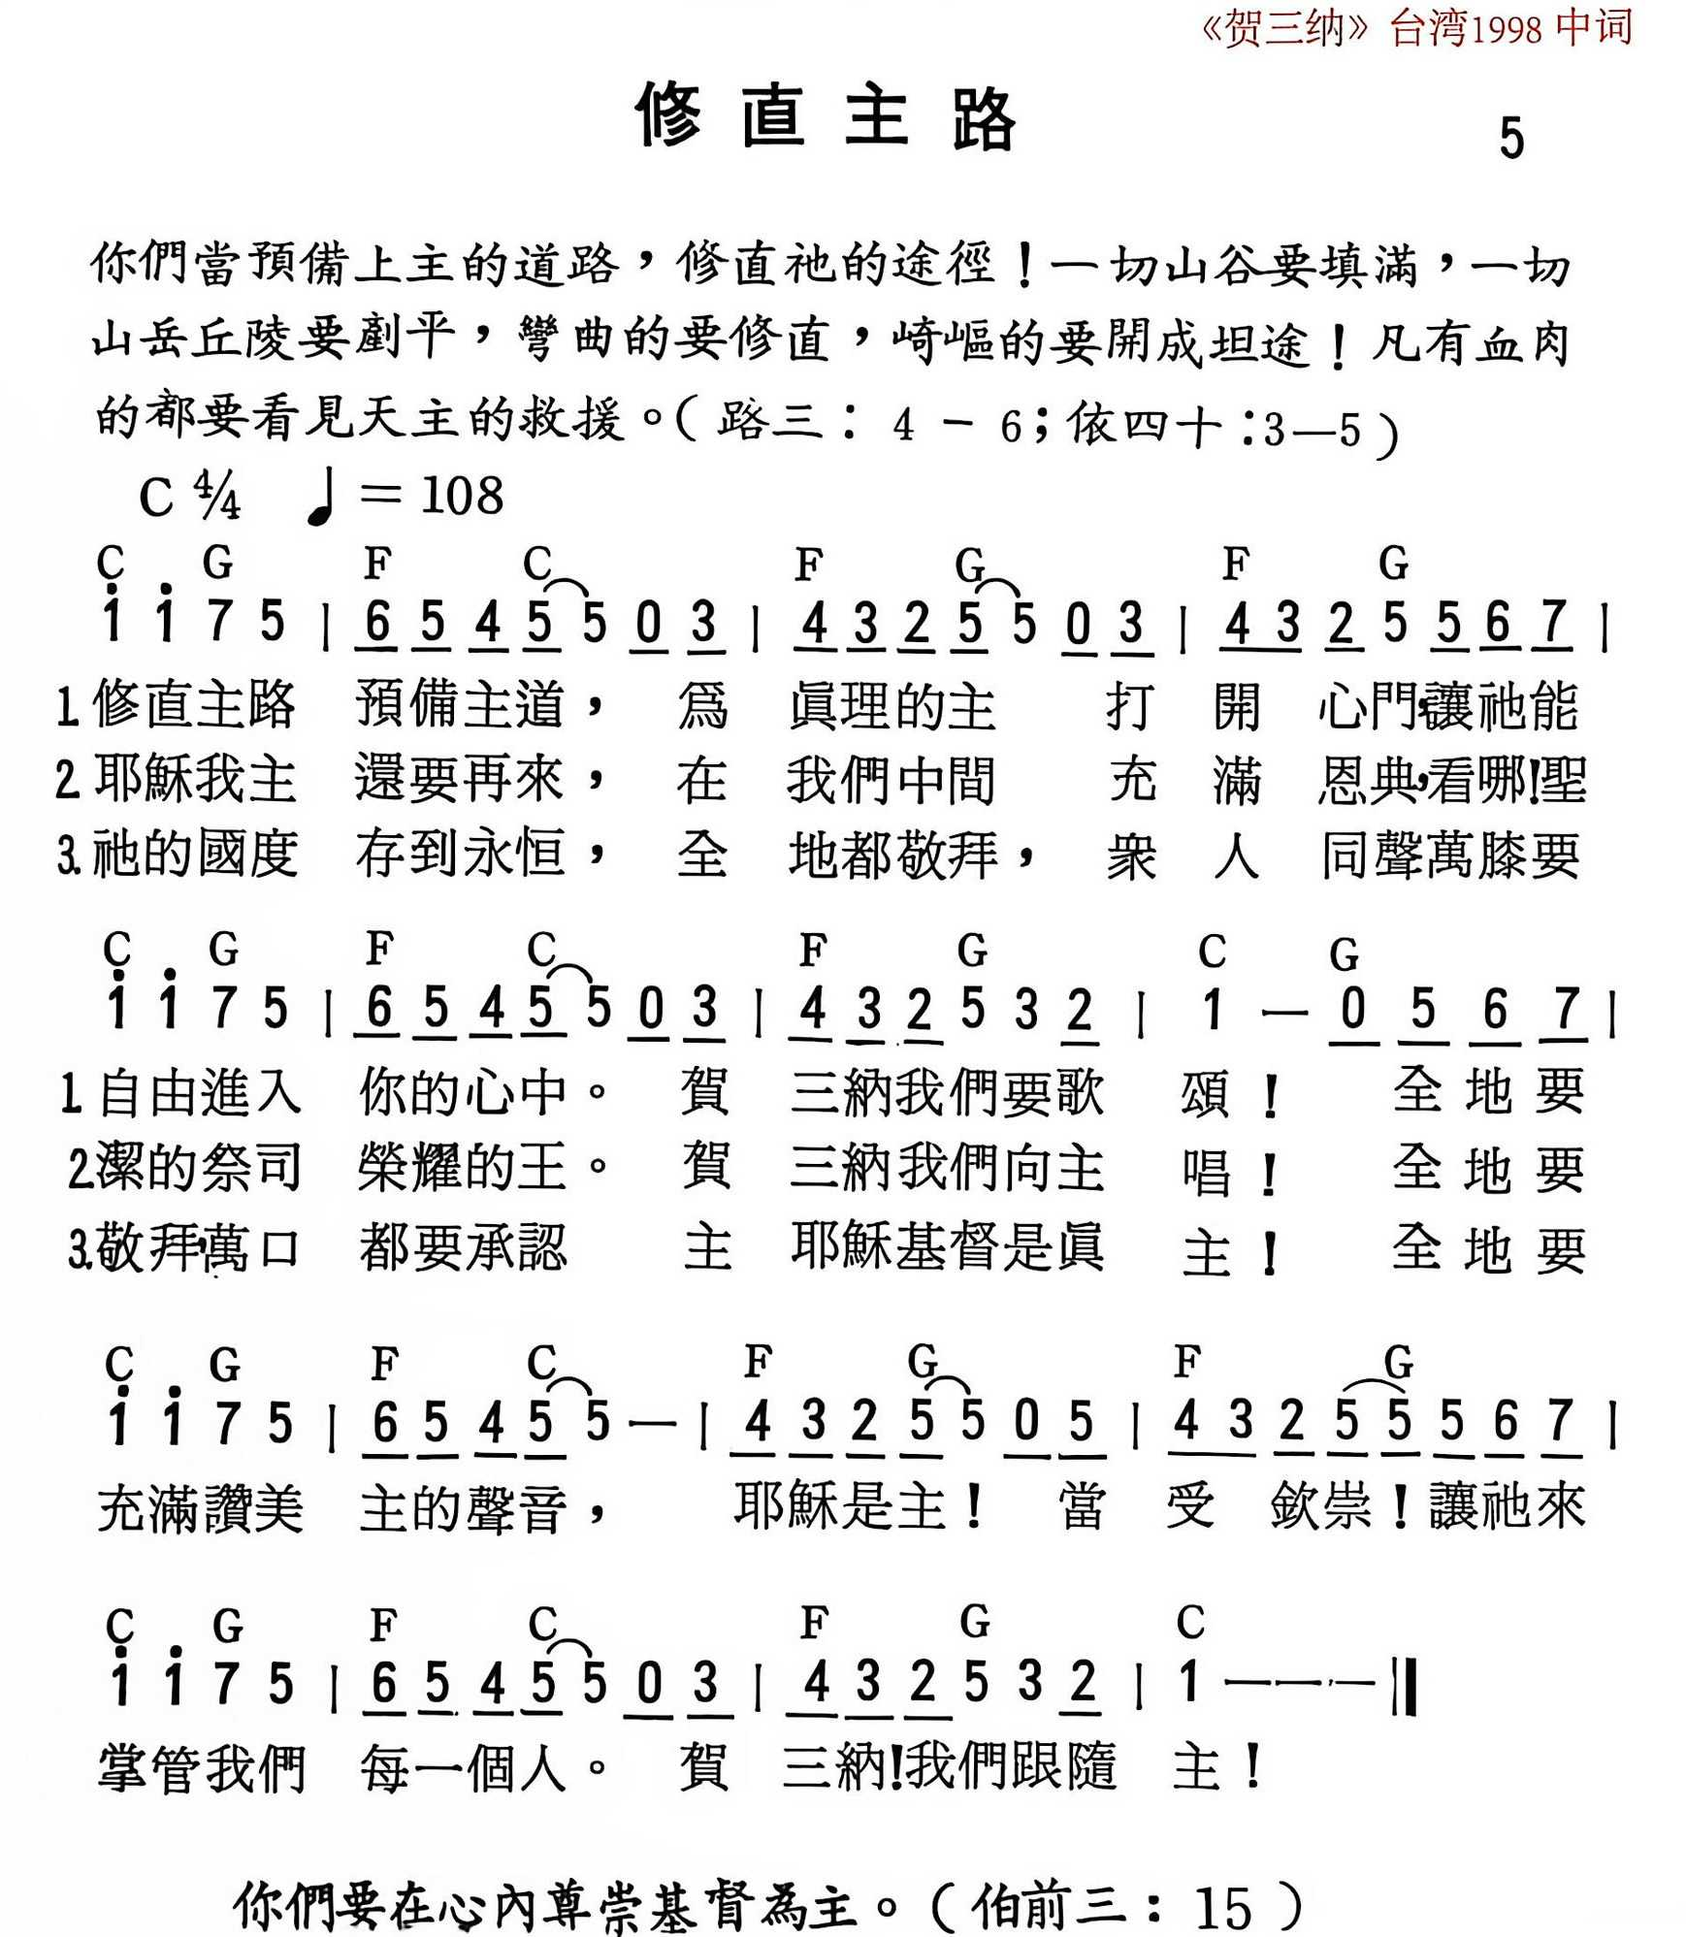
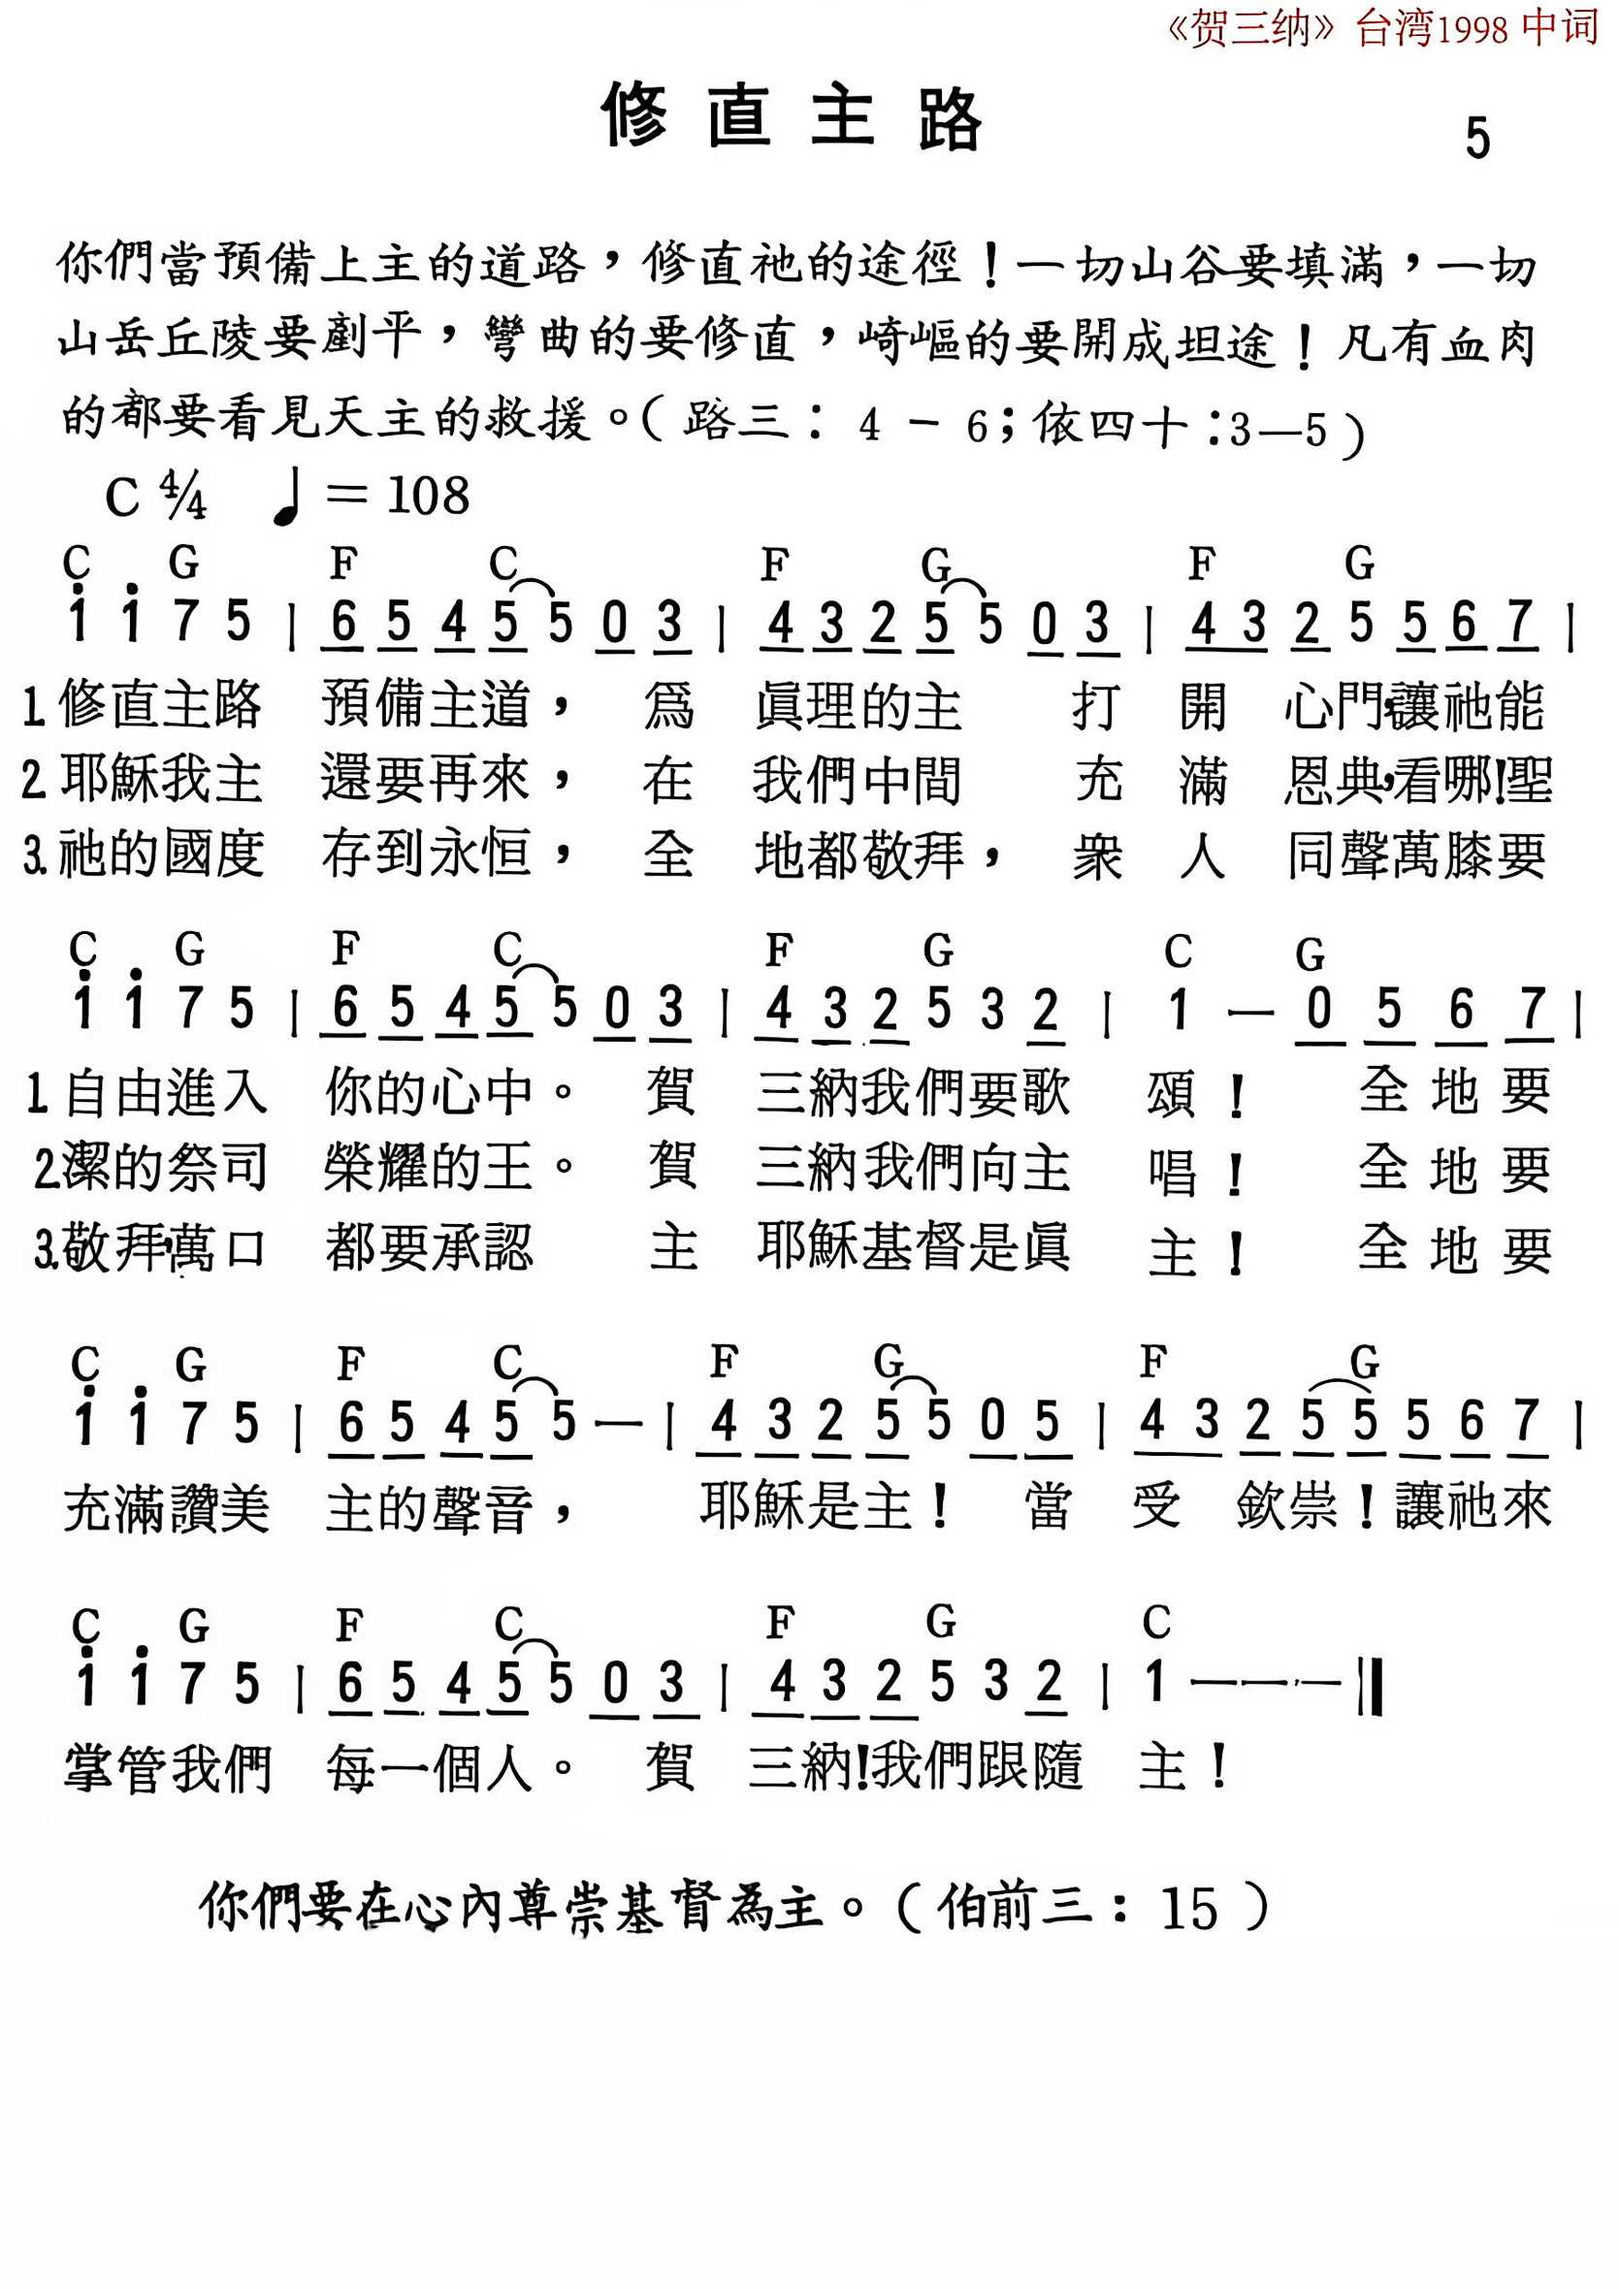
数据变更 (20261127232020) • [modify] 编辑歌曲：礼成咏 #022「修直主路」 [图片: 替换图片 1 张] 图片: 1新增/0删除 涉及文件:   [修改] data/songs.json   [修改] assets/js/script.js   [修改] index.html   [修改] 404.html   [新增] img/礼成咏_022_修直主路_1.jpeg

diff --git a/404.html b/404.html
@@ -40,7 +40,7 @@
     <meta name="viewport" content="width=device-width, initial-scale=1.0, maximum-scale=1.0, user-scalable=no">
     <title>复活计划乐队</title>
     <link rel="icon" href="favicon.ico" type="image/x-icon">
-    <link rel="stylesheet" href="assets/css/style.css?v=20261127225336">
+    <link rel="stylesheet" href="assets/css/style.css?v=20261127232020">
     <link rel="stylesheet" href="assets/css/v2-ui.css?v=24">
     <style>
         #loadingOverlay {
@@ -339,7 +339,7 @@
     <script src="data/v2-scores.js?v=7"></script>
     <script src="assets/js/score-format.js?v=2"></script>
     <script src="assets/js/v2-ui.js?v=32"></script>
-    <script src="assets/js/script.js?v=20261127225336"></script>
+    <script src="assets/js/script.js?v=20261127232020"></script>
     <script src="assets/js/v2-cache.js?v=13"></script>
 </body>
 </html>

diff --git a/index.html b/index.html
@@ -40,7 +40,7 @@
     <meta name="viewport" content="width=device-width, initial-scale=1.0, maximum-scale=1.0, user-scalable=no">
     <title>复活计划乐队</title>
     <link rel="icon" href="favicon.ico" type="image/x-icon">
-    <link rel="stylesheet" href="assets/css/style.css?v=20261127225336">
+    <link rel="stylesheet" href="assets/css/style.css?v=20261127232020">
     <link rel="stylesheet" href="assets/css/v2-ui.css?v=24">
     <style>
         #loadingOverlay {
@@ -339,7 +339,7 @@
     <script src="data/v2-scores.js?v=7"></script>
     <script src="assets/js/score-format.js?v=2"></script>
     <script src="assets/js/v2-ui.js?v=32"></script>
-    <script src="assets/js/script.js?v=20261127225336"></script>
+    <script src="assets/js/script.js?v=20261127232020"></script>
     <script src="assets/js/v2-cache.js?v=13"></script>
 </body>
 </html>

diff --git a/assets/js/script.js b/assets/js/script.js
@@ -1,5 +1,5 @@
 // 在文件开头定义版本号和变量
-const jsonVersion = '20261127225336';
+const jsonVersion = '20261127232020';
 let songsData = {};
 
 // 離線更新後讓瀏覽器 HTTP/memory cache 失效；SW 的 cache key 會忽略 query。
